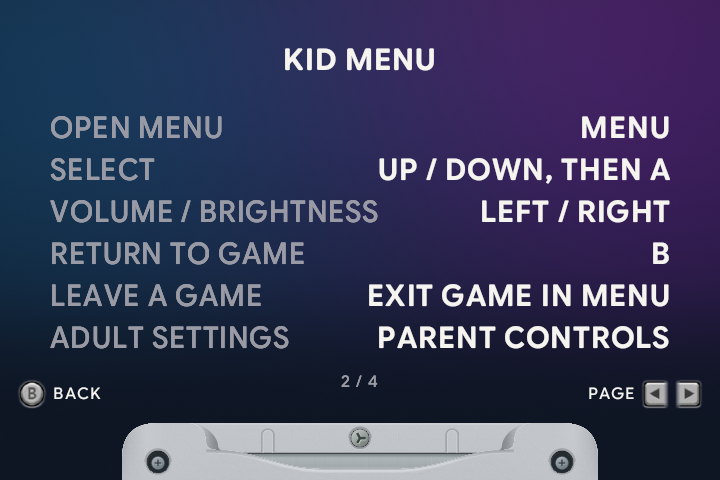
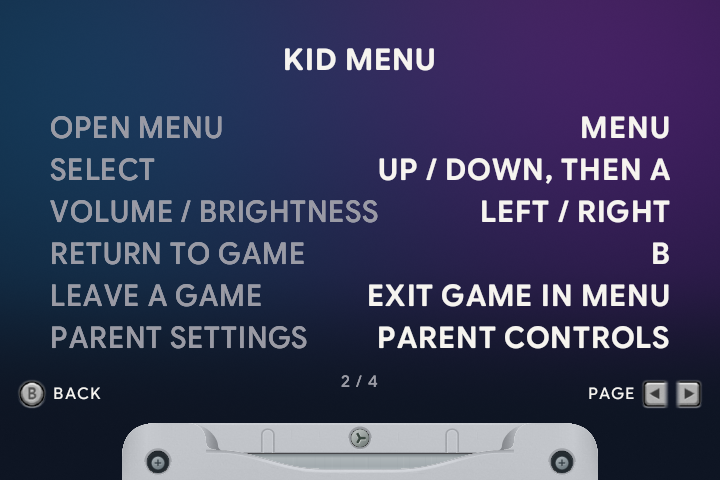
Use clear parent wording in the kid guide and code menu (#112)

Changed region(s): [[0.0611, 0.6562, 0.4278, 0.75]]

diff --git a/crates/slot/src/kid_menu.rs b/crates/slot/src/kid_menu.rs
@@ -185,7 +185,7 @@ impl Menu {
                 format!("Kid mode {}", if self.draft.active { "On" } else { "Off" }),
                 self.draft.rule.label().to_string(), value,
                 format!("Volume limit {}%", self.draft.volume_limit),
-                if self.gate.enabled() { "Change parent code" } else { "Set parent code" }.into(),
+                "Set parent code".into(),
             ];
             let status = if self.status.is_empty() {
                 format!(
@@ -277,7 +277,7 @@ impl Menu {
                 ("Play limit".into(), kind.into(), true),
                 ("Time".into(), time, true),
                 ("Volume limit".into(), format!("{}%", self.draft.volume_limit), true),
-                ("Parent code".into(), if self.gate.enabled() { "Change" } else { "Set" }.into(), false),
+                ("Set parent code".into(), String::new(), false),
             ];
             let status = if self.status == "Parent code saved" { "" } else { &self.status };
             let mut face = slot_ui::parent_settings_face(&rows, self.selected, 0, status);

diff --git a/crates/slot/src/reference.rs b/crates/slot/src/reference.rs
@@ -41,7 +41,7 @@ pub fn pages(
                 ("Volume / brightness", "Left / Right"),
                 ("Return to game", "B"),
                 ("Leave a game", "Exit game in menu"),
-                ("Adult settings", "Parent controls"),
+                ("Parent settings", "Parent controls"),
             ]),
         ));
     } else {

diff --git a/KID-MODE.md b/KID-MODE.md
@@ -17,7 +17,7 @@ Choose which games children can play, set a time allowance and cap the volume. C
 
 ![Parent settings with kid mode enabled and a remaining-time meter](previews/guide/parent-settings.png)
 
-You can also set the code separately through **Parent code → Set**. Kid mode starts off on a new installation.
+You can also set the code separately through **Set parent code**. Kid mode starts off on a new installation.
 
 ## The kid menu
 
@@ -88,7 +88,7 @@ Use four presses from <kbd>A</kbd>, <kbd>B</kbd>, <kbd>X</kbd>, <kbd>Y</kbd> or 
 | <kbd>SELECT</kbd> | Delete the last entry. |
 | <kbd>MENU</kbd> | Cancel code entry. |
 
-To change the code, open **Parent controls**, unlock it and choose **Parent code → Change**. Enter and confirm the new code. A mismatched confirmation shakes and clears; re-enter the confirmation to try again.
+To change the code, open **Parent controls**, unlock it and choose **Set parent code**. Enter and confirm the new code. A mismatched confirmation shakes and clears; re-enter the confirmation to try again.
 
 ### Turn kid mode off
 
